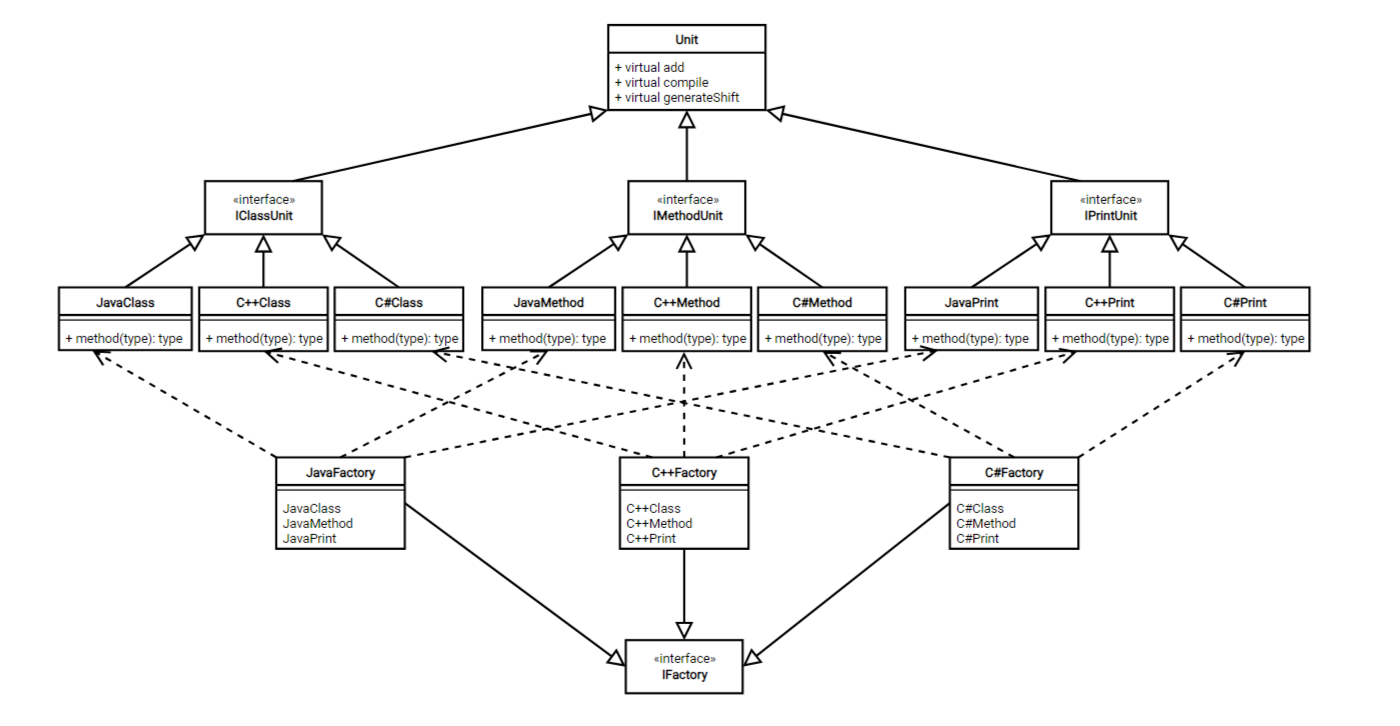
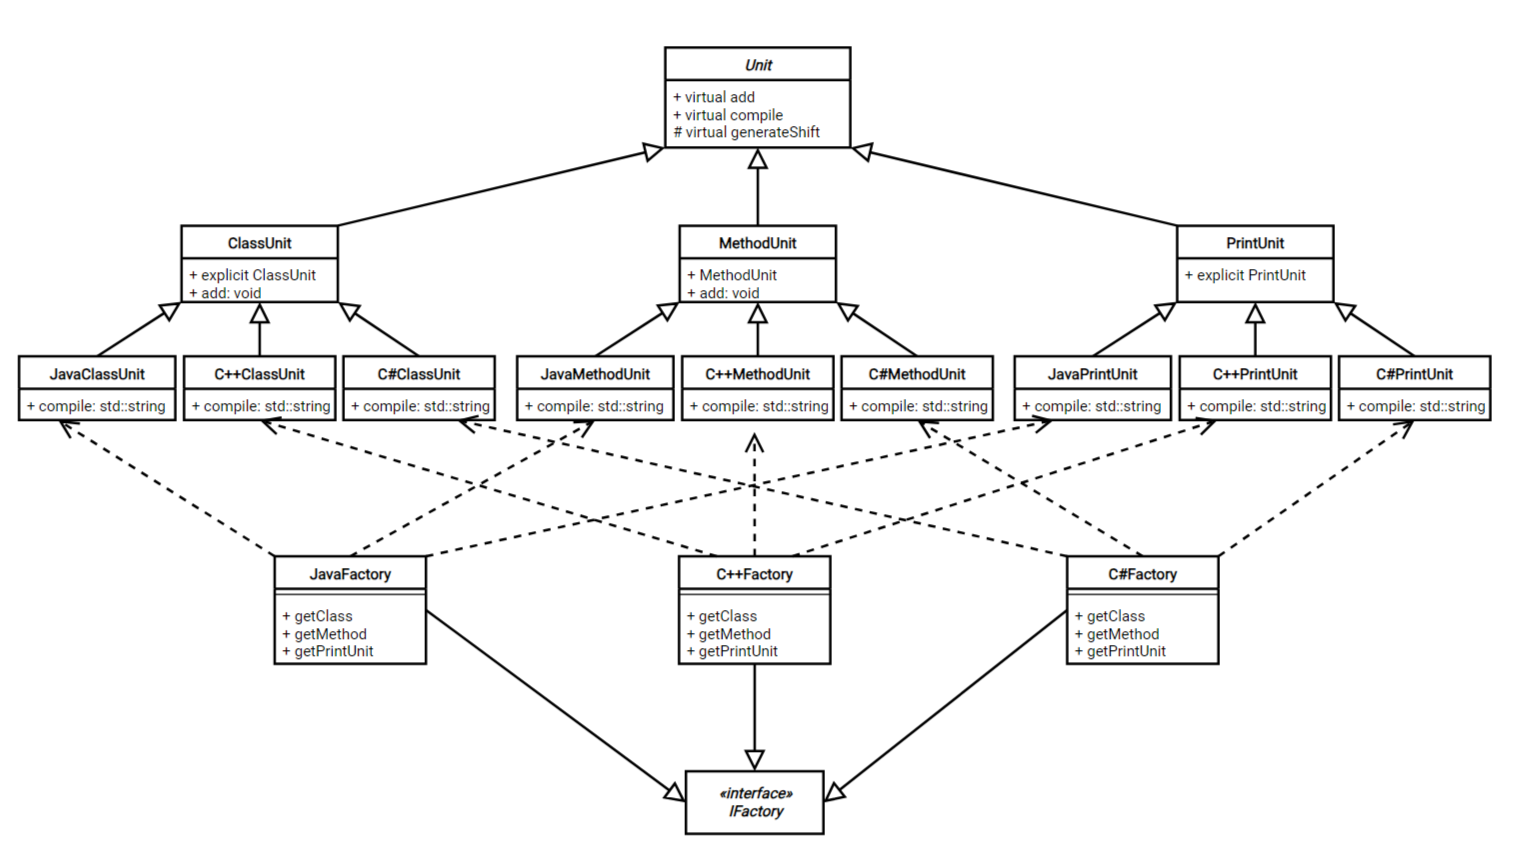
Изменение UML диаграммы

diff --git a/AbstractFactory/Unit.h b/AbstractFactory/Unit.h
@@ -9,6 +9,7 @@ public:
     using Flags = unsigned int; // переобозначение
 public:
     virtual ~Unit() = default;
+    // Умные указатели обеспечивают безопасность за счёт автоматического управления памятью
     virtual void add( const std::shared_ptr< Unit >& , Flags ) {
         throw std::runtime_error( "Not supported" );
     }
@@ -26,7 +27,7 @@ protected:
 };
 
 
-class IClassUnit : public Unit
+class ClassUnit : public Unit
 {
 public:
     enum AccessModifier { // Перечисление (определение типов)
@@ -34,10 +35,11 @@ public:
         PROTECTED, // эквивалент 1
         PRIVATE
     };
+    // статический вектор (доступен во всей программе)
     static const std::vector< std::string > ACCESS_MODIFIERS;
 public:
     // explicit - запрещает неявные преобразования
-    explicit IClassUnit( const std::string& name ) : m_name( name ) {
+    explicit ClassUnit( const std::string& name ) : m_name( name ) {
         m_fields.resize( ACCESS_MODIFIERS.size() );
     }
     // Flags - переобозначили (unsigned int)
@@ -55,9 +57,9 @@ protected:
     using Fields = std::vector< std::shared_ptr< Unit > >;
     std::vector< Fields > m_fields; // вектор из 3 векторов
 }; // Выводится в консоль начиная с public функций, заканчивая private (можно поменять)
-const std::vector< std::string > IClassUnit::ACCESS_MODIFIERS = { "public", "protected", "private" };
+const std::vector< std::string > ClassUnit::ACCESS_MODIFIERS = { "public", "protected", "private" };
 
-class IMethodUnit : public Unit
+class MethodUnit : public Unit
 {
 public:
     enum Modifier { // Перечисление (битовые флаги)
@@ -72,7 +74,7 @@ public:
         INTERNAL = 1 << 8
     };
 public:
-    IMethodUnit( const std::string& name, const std::string& returnType, Flags flags ) :
+    MethodUnit( const std::string& name, const std::string& returnType, Flags flags ) :
         m_name( name ), m_returnType( returnType ), m_flags( flags ) { }
     // добваить в метод другие методы
     // Flags - не знаю зачем нужен. Ни на что не влияет (можно удалить)
@@ -87,21 +89,21 @@ protected:
     std::vector< std::shared_ptr< Unit > > m_body;
 };
 
-class IPrintUnit : public Unit
+class PrintUnit : public Unit
 {
 public:
-    explicit IPrintUnit( const std::string& text ) : m_text( text ) { }
+    explicit PrintUnit( const std::string& text ) : m_text( text ) { }
 protected:
     std::string m_text;
 };
 
 
 
-class CClassUnit : public IClassUnit
+class CClassUnit : public ClassUnit
 {
 public:
     CClassUnit(const std::string& name)
-        : IClassUnit(name){}
+        : ClassUnit(name){}
     // level - количестов отступов level * shift
     std::string compile( unsigned int level = 0 ) const
     {
@@ -123,7 +125,7 @@ public:
     }
 };
 
-class CMethodUnit : public IMethodUnit
+class CMethodUnit : public MethodUnit
 {
 public:
     enum Modifier { // Перечисление (битовые флаги)
@@ -133,7 +135,7 @@ public:
     };
 public:
     CMethodUnit(const std::string& name, const std::string& returnType, Flags flags)
-        : IMethodUnit(name, returnType, flags){}
+        : MethodUnit(name, returnType, flags){}
     // вывести метод
     std::string compile( unsigned int level = 0 ) const {
         std::string result = generateShift( level );
@@ -163,11 +165,11 @@ public:
     }
 };
 
-class CPrintUnit : public IPrintUnit
+class CPrintUnit : public PrintUnit
 {
 public:
     CPrintUnit( const std::string& text )
-        : IPrintUnit(text){}
+        : PrintUnit(text){}
     std::string compile(unsigned int level = 0) const {
         return generateShift( level ) + "printf( \"" + m_text + "\" );\n";
     }
@@ -175,11 +177,11 @@ public:
 
 
 
-class JavaClassUnit : public IClassUnit
+class JavaClassUnit : public ClassUnit
 {
 public:
     JavaClassUnit(const std::string& name)
-        : IClassUnit(name){}
+        : ClassUnit(name){}
     // level - количестов отступов level * shift
     std::string compile( unsigned int level = 0 ) const
     {
@@ -199,7 +201,7 @@ public:
     }
 };
 
-class JavaMethodUnit : public IMethodUnit
+class JavaMethodUnit : public MethodUnit
 {
 public:
     enum Modifier { // Перечисление (битовые флаги)
@@ -212,7 +214,7 @@ public:
     };
 public:
     JavaMethodUnit(const std::string& name, const std::string& returnType, Unit::Flags flags)
-        : IMethodUnit(name, returnType, flags){}
+        : MethodUnit(name, returnType, flags){}
     // вывести метод
     std::string compile( unsigned int level = 0 ) const {
         std::string result = generateShift( level );
@@ -248,11 +250,11 @@ public:
     }
 };
 
-class JavaPrintUnit : public IPrintUnit
+class JavaPrintUnit : public PrintUnit
 {
 public:
     JavaPrintUnit(const std::string& text)
-        : IPrintUnit(text){}
+        : PrintUnit(text){}
     std::string compile( unsigned int level = 0 ) const
     {
         return generateShift(level) + "System.out.println( \"" + m_text + "\" );\n";
@@ -261,11 +263,11 @@ public:
 
 
 
-class SharpClassUnit : public IClassUnit
+class SharpClassUnit : public ClassUnit
 {
 public:
     SharpClassUnit(const std::string& name)
-        : IClassUnit(name){}
+        : ClassUnit(name){}
     // level - количестов отступов level * shift
     std::string compile( unsigned int level = 0 ) const
     {
@@ -284,7 +286,7 @@ public:
     }
 };
 
-class SharpMethodUnit : public IMethodUnit
+class SharpMethodUnit : public MethodUnit
 {
 public:
     enum Modifier { // Перечисление (битовые флаги)
@@ -298,7 +300,7 @@ public:
     };
 public:
     SharpMethodUnit(const std::string& name, const std::string& returnType, Unit::Flags flags)
-        : IMethodUnit(name, returnType, flags){}
+        : MethodUnit(name, returnType, flags){}
     // вывести метод
     std::string compile( unsigned int level = 0 ) const {
         std::string result = generateShift( level );
@@ -339,11 +341,11 @@ public:
     }
 };
 
-class SharpPrintUnit : public IPrintUnit
+class SharpPrintUnit : public PrintUnit
 {
 public:
     SharpPrintUnit(const std::string& text)
-        : IPrintUnit(text){}
+        : PrintUnit(text){}
     std::string compile( unsigned int level = 0 ) const
     {
         return generateShift(level) + "Console.WriteLine( $\"" + m_text + "\" );\n";
@@ -355,59 +357,59 @@ public:
 class IFactory
 {
 public:
-    virtual std::shared_ptr<IClassUnit> getClass( const std::string& name ) = 0;
-    virtual std::shared_ptr<IMethodUnit> getMethod( const std::string& name, const std::string& returnType ,Unit::Flags flags ) = 0;
-    virtual std::shared_ptr<IPrintUnit> getPrintUnit( const std::string& text ) = 0;
+    virtual std::shared_ptr<ClassUnit> getClass( const std::string& name ) = 0;
+    virtual std::shared_ptr<MethodUnit> getMethod( const std::string& name, const std::string& returnType, Unit::Flags flags ) = 0;
+    virtual std::shared_ptr<PrintUnit> getPrintUnit( const std::string& text ) = 0;
 };
 
 class CFactory : public IFactory
 {
 public:
-    std::shared_ptr<IClassUnit> getClass( const std::string& name )
+    std::shared_ptr<ClassUnit> getClass( const std::string& name )
     {
-        return std::shared_ptr<IClassUnit>(new CClassUnit(name));
+        return std::shared_ptr<ClassUnit>(new CClassUnit(name));
     }
-    std::shared_ptr<IMethodUnit> getMethod( const std::string &name, const std::string &returnType, Unit::Flags flags )
+    std::shared_ptr<MethodUnit> getMethod( const std::string &name, const std::string &returnType, Unit::Flags flags )
     {
-        return std::shared_ptr<IMethodUnit>(new CMethodUnit(name, returnType, flags));
+        return std::shared_ptr<MethodUnit>(new CMethodUnit(name, returnType, flags));
     }
-    std::shared_ptr<IPrintUnit> getPrintUnit( const std::string &text )
+    std::shared_ptr<PrintUnit> getPrintUnit( const std::string &text )
     {
-        return std::shared_ptr<IPrintUnit>(new CPrintUnit(text));
+        return std::shared_ptr<PrintUnit>(new CPrintUnit(text));
     }
 };
 
 class JavaFactory : public IFactory
 {
 public:
-    std::shared_ptr<IClassUnit> getClass( const std::string& name )
+    std::shared_ptr<ClassUnit> getClass( const std::string& name )
     {
-        return std::shared_ptr<IClassUnit>(new JavaClassUnit(name));
+        return std::shared_ptr<ClassUnit>(new JavaClassUnit(name));
     }
-    std::shared_ptr<IMethodUnit> getMethod( const std::string &name, const std::string &returnType, Unit::Flags flags )
+    std::shared_ptr<MethodUnit> getMethod( const std::string &name, const std::string &returnType, Unit::Flags flags )
     {
-        return std::shared_ptr<IMethodUnit>(new JavaMethodUnit(name, returnType, flags));
+        return std::shared_ptr<MethodUnit>(new JavaMethodUnit(name, returnType, flags));
     }
-    std::shared_ptr<IPrintUnit> getPrintUnit( const std::string &text )
+    std::shared_ptr<PrintUnit> getPrintUnit( const std::string &text )
     {
-        return std::shared_ptr<IPrintUnit>(new JavaPrintUnit(text));
+        return std::shared_ptr<PrintUnit>(new JavaPrintUnit(text));
     }
 };
 
 class SharpFactory : public IFactory
 {
 public:
-    std::shared_ptr<IClassUnit> getClass( const std::string& name )
+    std::shared_ptr<ClassUnit> getClass( const std::string& name )
     {
-        return std::shared_ptr<IClassUnit>(new SharpClassUnit(name));
+        return std::shared_ptr<ClassUnit>(new SharpClassUnit(name));
     }
-    std::shared_ptr<IMethodUnit> getMethod( const std::string &name, const std::string &returnType, Unit::Flags flags )
+    std::shared_ptr<MethodUnit> getMethod( const std::string &name, const std::string &returnType, Unit::Flags flags )
     {
-        return std::shared_ptr<IMethodUnit>(new SharpMethodUnit(name, returnType, flags));
+        return std::shared_ptr<MethodUnit>(new SharpMethodUnit(name, returnType, flags));
     }
-    std::shared_ptr<IPrintUnit> getPrintUnit( const std::string &text )
+    std::shared_ptr<PrintUnit> getPrintUnit( const std::string &text )
     {
-        return std::shared_ptr<IPrintUnit>(new SharpPrintUnit(text));
+        return std::shared_ptr<PrintUnit>(new SharpPrintUnit(text));
     }
 };
 

diff --git a/AbstractFactory/main.cpp b/AbstractFactory/main.cpp
@@ -3,33 +3,33 @@
 #include <iostream>
 
 std::string generateProgram(IFactory* factory ) {
-    std::shared_ptr< IClassUnit > myClass = factory->getClass("MyClass");
+    std::shared_ptr< ClassUnit > myClass = factory->getClass("MyClass");
     // C++  | static, const, virtual
     // Java | static, final, abstract, public, protected, private
     // C#   | const, virtual, static, public, private, protected private, protected, internal, protected internal
     myClass->add(
-        factory->getMethod( "testFunc1", "void", IMethodUnit::PUBLIC ),
-        IClassUnit::PUBLIC
+        factory->getMethod( "testFunc1", "void", MethodUnit::PUBLIC ),
+        ClassUnit::PUBLIC
         );
     myClass->add(
-        factory->getMethod( "testFunc2", "void", IMethodUnit::STATIC | IMethodUnit::PRIVATE),
-        IClassUnit::PRIVATE
+        factory->getMethod( "testFunc2", "void", MethodUnit::STATIC | MethodUnit::PRIVATE),
+        ClassUnit::PRIVATE
         );
     myClass->add(
-        factory->getMethod( "testFunc3", "void", IMethodUnit::CONST | IMethodUnit::PROTECTED | IMethodUnit::PRIVATE),
-        IClassUnit::PROTECTED
+        factory->getMethod( "testFunc3", "void", MethodUnit::CONST | MethodUnit::PROTECTED | MethodUnit::PRIVATE),
+        ClassUnit::PROTECTED
         );
-    std::shared_ptr< IMethodUnit > method = factory->getMethod( "testFunc4", "void", IMethodUnit::STATIC | IMethodUnit::PROTECTED);
+    std::shared_ptr< MethodUnit > method = factory->getMethod( "testFunc4", "void", MethodUnit::STATIC | MethodUnit::PROTECTED);
     method->add( factory->getPrintUnit( R"(Hello, world!\n)") );
-    myClass->add( method, IClassUnit::PROTECTED );
+    myClass->add( method, ClassUnit::PROTECTED );
 
-    std::shared_ptr< IMethodUnit > method2 = factory->getMethod( "TTTT1", "void", IMethodUnit::PROTECTED);
-    method2->add(factory->getMethod( "TTTT2", "void", IMethodUnit::PROTECTED ));
-    method2->add(factory->getMethod( "TTTT3", "void", IMethodUnit::PROTECTED ));
-    std::shared_ptr< IMethodUnit > method3 = factory->getMethod( "TTTT4", "void", IMethodUnit::PROTECTED);
-    method3->add(factory->getMethod( "TTTT5", "void", IMethodUnit::PROTECTED ));
+    std::shared_ptr< MethodUnit > method2 = factory->getMethod( "TTTT1", "void", MethodUnit::PROTECTED);
+    method2->add(factory->getMethod( "TTTT2", "void", MethodUnit::PROTECTED ));
+    method2->add(factory->getMethod( "TTTT3", "void", MethodUnit::PROTECTED ));
+    std::shared_ptr< MethodUnit > method3 = factory->getMethod( "TTTT4", "void", MethodUnit::PROTECTED);
+    method3->add(factory->getMethod( "TTTT5", "void", MethodUnit::PROTECTED ));
     method2->add(method3);
-    myClass->add( method2, IClassUnit::PROTECTED );
+    myClass->add( method2, ClassUnit::PROTECTED );
 
 
     return myClass->compile();
